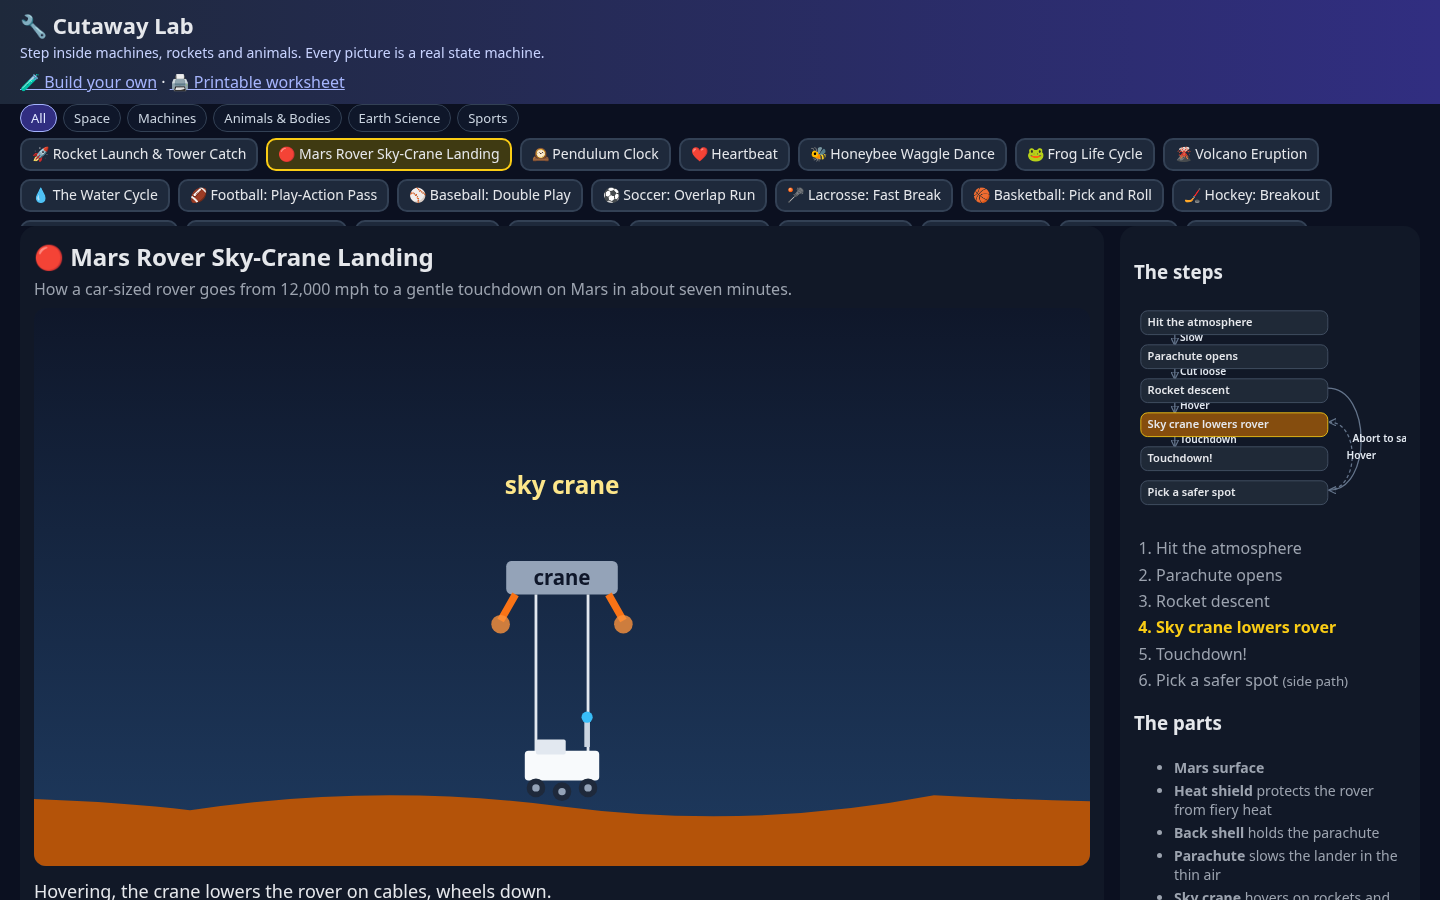
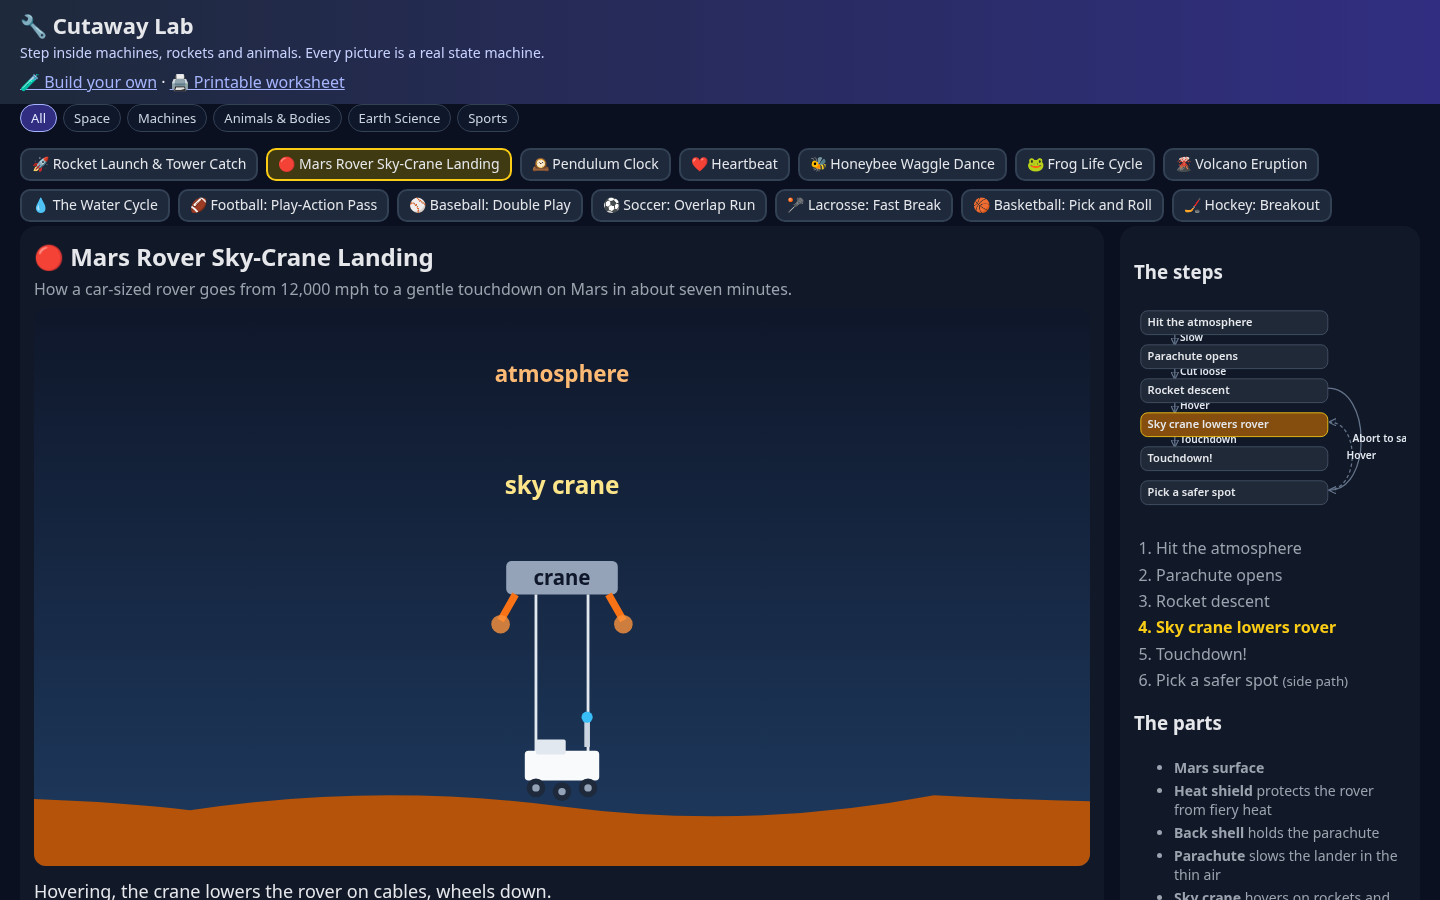
v1.0: digest esophagus + mars atmosphere captions
- Digestion path labels the esophagus tube
- Mars entry shows atmosphere caption above the capsule

Changed region(s): [[0.0, 0.1556, 0.9375, 0.2489], [0.3438, 0.4044, 0.4375, 0.4356]]

diff --git a/machines/digest.js b/machines/digest.js
@@ -7,6 +7,8 @@ export default {
       svg: '<ellipse cx="200" cy="160" rx="90" ry="120" fill="#1e293b" stroke="#64748b" stroke-width="3"/>' },
     { id: 'mouth', label: 'Mouth', job: 'chews food into little pieces and mixes in spit',
       svg: '<ellipse cx="200" cy="55" rx="28" ry="14" fill="#fb7185" stroke="#9f1239" stroke-width="2"/><text x="200" y="60" text-anchor="middle" fill="#fff1f2" font-size="11" font-weight="700">mouth</text>', explode: [0, -35] },
+    { id: 'lblEso', label: 'Esophagus label',
+      svg: '<text x="250" y="140" text-anchor="middle" fill="#fda4af" font-size="12" font-weight="700">esophagus</text>' },
     { id: 'esophagus', label: 'Esophagus', job: 'is the tube that squeezes food down to the stomach',
       svg: '<path d="M200 70 V120" stroke="#fca5a5" stroke-width="10" stroke-linecap="round"/><text x="230" y="100" fill="#fecaca" font-size="11" font-weight="700">tube</text>', explode: [40, -10] },
     { id: 'stomach', label: 'Stomach', job: 'churns food with acid into a soupy mix',

diff --git a/machines/mars.js b/machines/mars.js
@@ -4,6 +4,8 @@ export default {
   initial: 'entry',
   parts: [
     { id: 'ground', label: 'Mars surface', svg: '<path d="M-300 266 Q-100 258 0 270 Q100 255 200 268 T400 262 Q550 270 700 262 V300 H-300Z" fill="#b45309"/>' },
+    { id: 'lblAtmo', label: 'Atmosphere label',
+      svg: '<text x="200" y="40" text-anchor="middle" fill="#fdba74" font-size="12" font-weight="700">atmosphere</text>', pose: { opacity: 1 } },
     { id: 'shield', label: 'Heat shield', job: 'protects the rover from fiery heat', svg: '<path d="M165 60 Q200 85 235 60 Z" fill="#78350f"/>', explode: [-60, -10] },
     { id: 'shell', label: 'Back shell', job: 'holds the parachute', svg: '<path d="M170 60 L185 30 H215 L230 60Z" fill="#e5e7eb"/>', explode: [60, -10] },
     { id: 'chute', label: 'Parachute', job: 'slows the lander in the thin air', svg: '<path d="M140 20 Q200 -40 260 20 Z" fill="#f8fafc" stroke="#ef4444" stroke-width="3"/><path d="M140 20 L190 30 M260 20 L210 30" stroke="#ddd"/>', pose: { opacity: 0 } },
